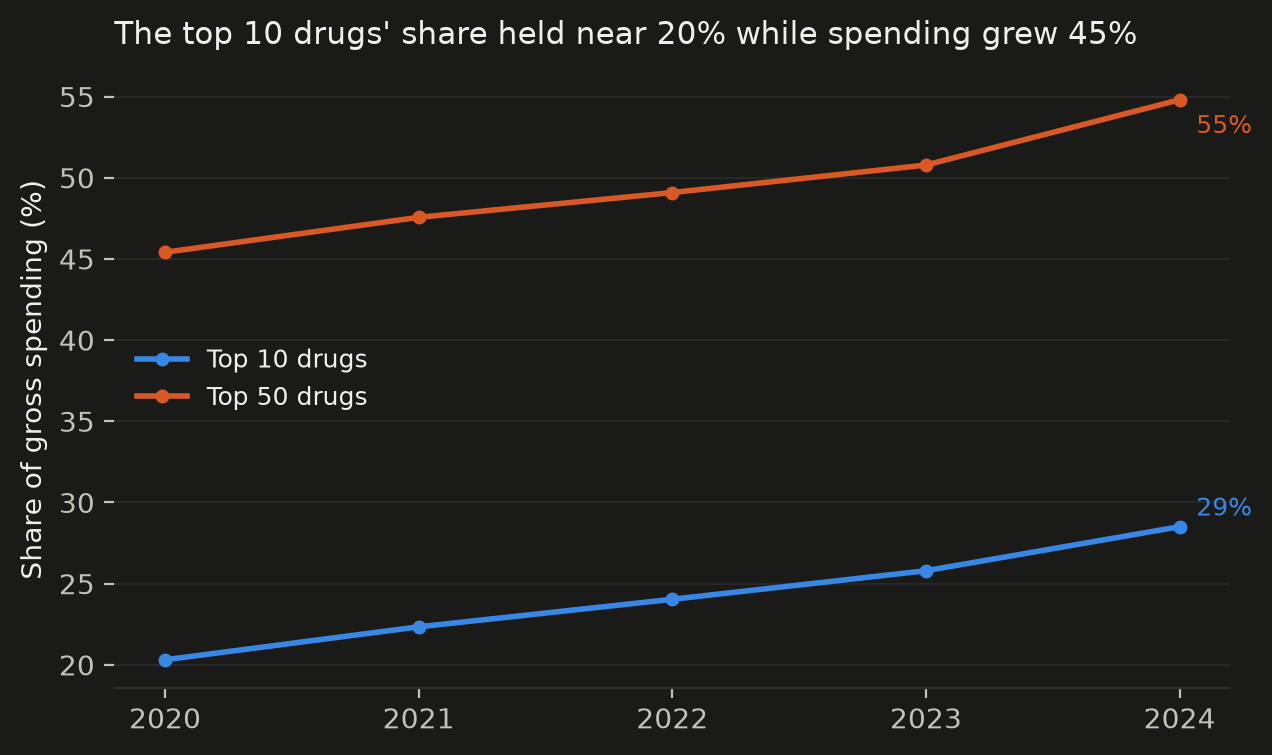
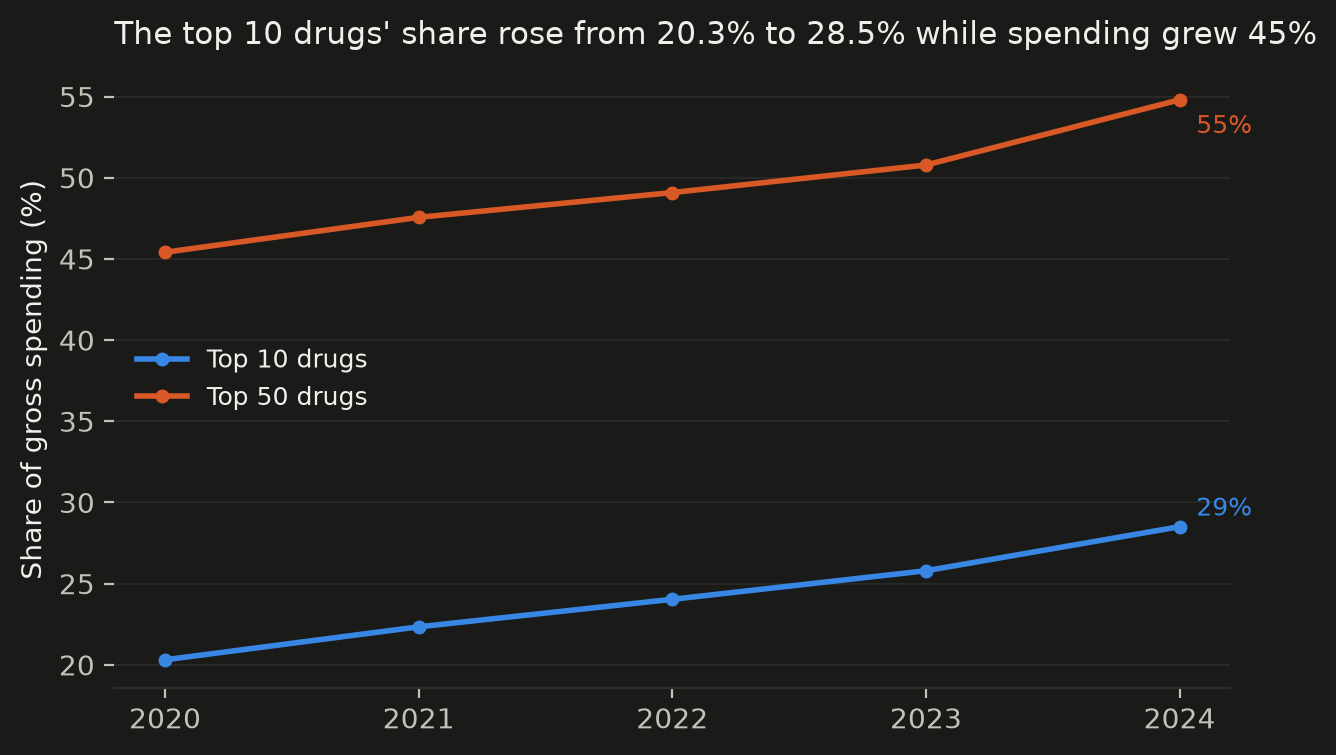
Concentration chart: title follows the data (top 10 share rose 20.3% to 28.5%)

diff --git a/src/charts.py b/src/charts.py
@@ -236,8 +236,13 @@ def concentration_chart(conc, pct_change):
         ax.set_xticks(conc["yr"])
         ax.set_ylabel("Share of gross spending (%)")
         first = conc.iloc[0]
-        ax.set_title(f"The top 10 drugs' share held near {first['top10_share_pct']:.0f}% "
-                     f"while spending grew {pct_change:.0f}%", fontsize=11, loc="left", pad=10)
+        a, b = first["top10_share_pct"], last["top10_share_pct"]
+        if abs(b - a) < 1:
+            share_txt = f"held near {a:.0f}%"
+        else:
+            share_txt = f"{'rose' if b > a else 'fell'} from {a:.1f}% to {b:.1f}%"
+        ax.set_title(f"The top 10 drugs' share {share_txt} while spending grew {pct_change:.0f}%",
+                     fontsize=11, loc="left", pad=10)
         ax.legend(frameon=False, fontsize=9, loc="center left")
         ax.grid(axis="x", visible=False)
         return fig
